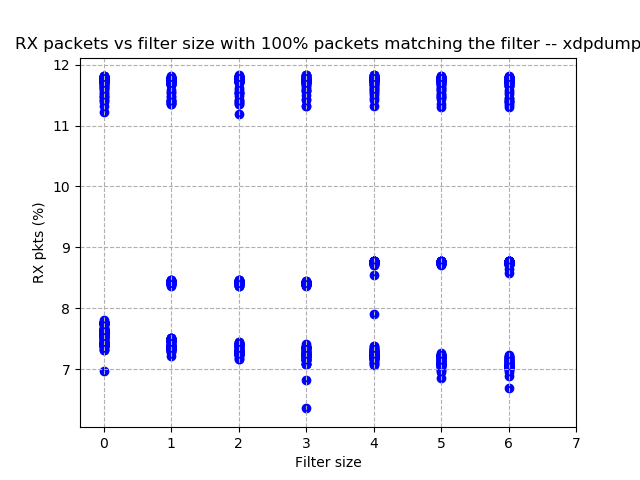
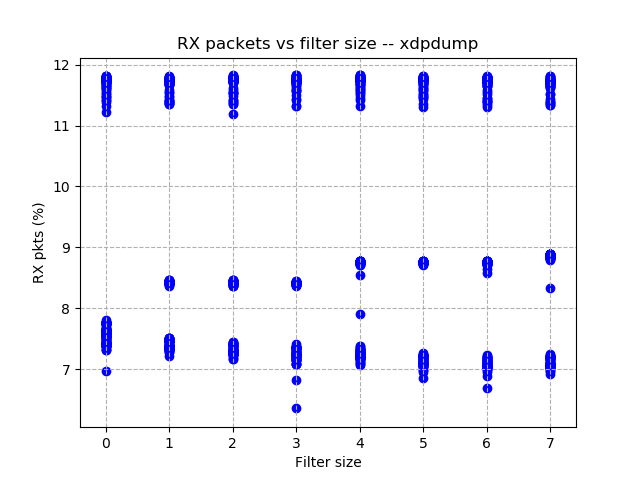
bug fix

diff --git a/Filter_loss/plot.py b/Filter_loss/plot.py
@@ -54,7 +54,7 @@ def compute(file_name):
     lower_cap = []
     upper_cap = []
     received, sent = parse(file_name)
-    for i in range(7):
+    for i in range(8):
         sub_cap = [100*r/s for r,s in zip(received[N*i:N*(i+1)], sent[N*i:N*(i+1)])]
         scatter_cap.append(tuple(sub_cap))
         
@@ -82,7 +82,7 @@ def plot(file_name):
         plt.plot(x, cap, label = "Captured pkts", color="blue") 
 
 
-    plt.title("RX packets vs filter size with 100% packets matching the filter -- {0}".format(METHOD))
+    plt.title("RX packets vs filter size -- {0}".format(METHOD))
     plt.ylabel('RX pkts (%)')
     plt.xlabel('Filter size')
     plt.grid(linestyle="--")
